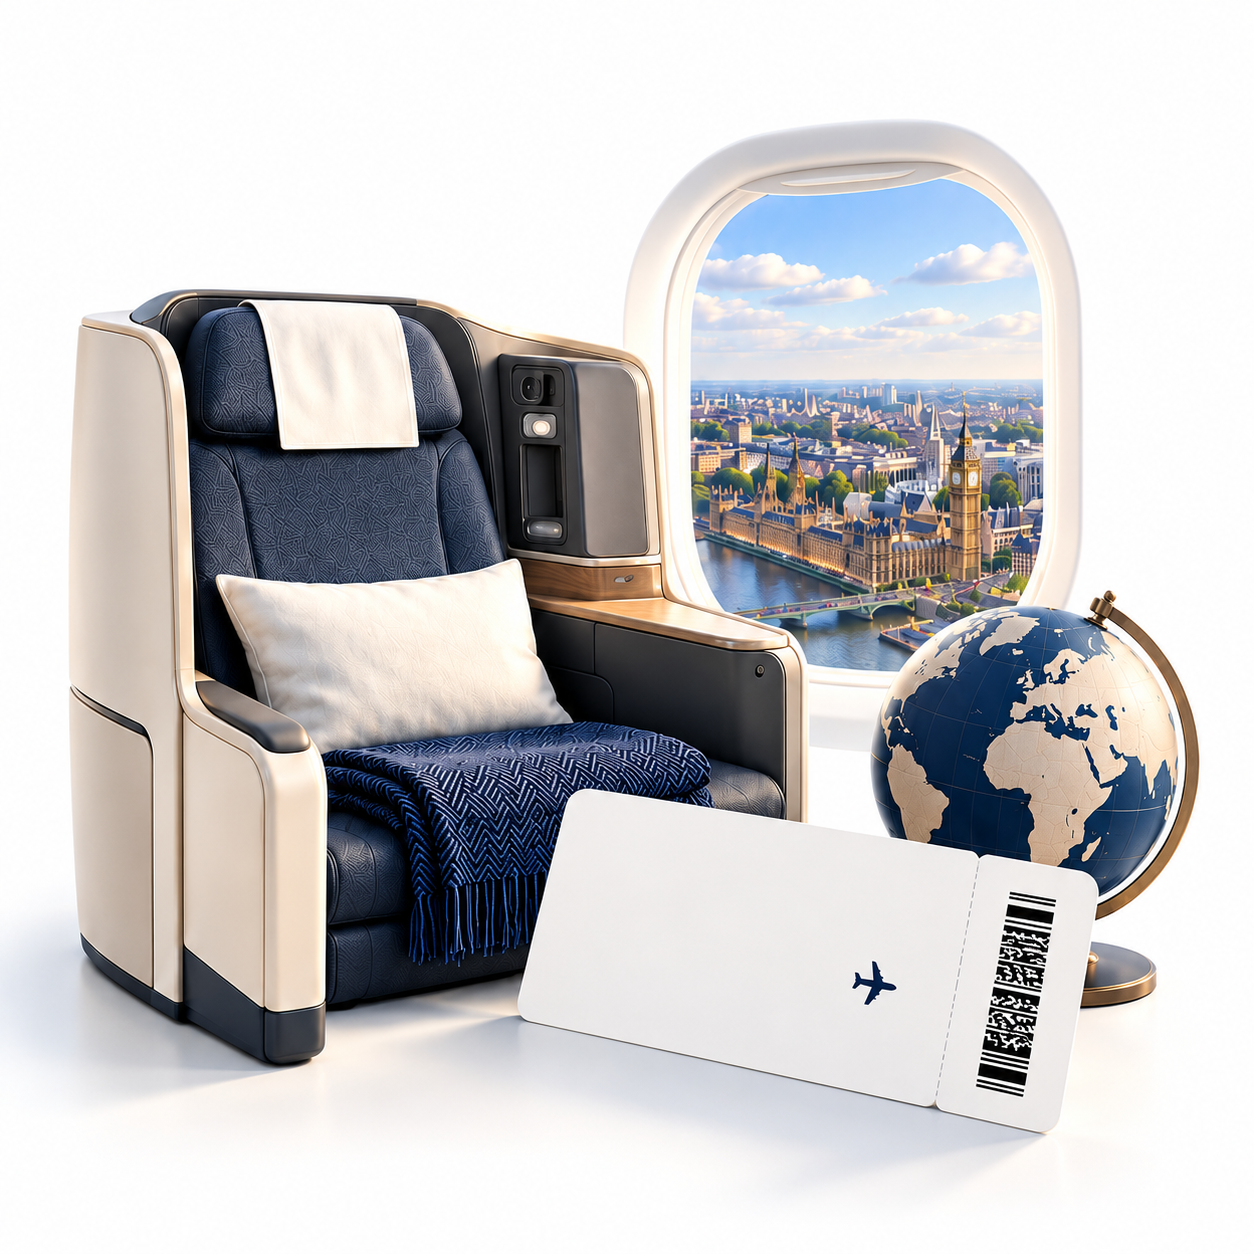
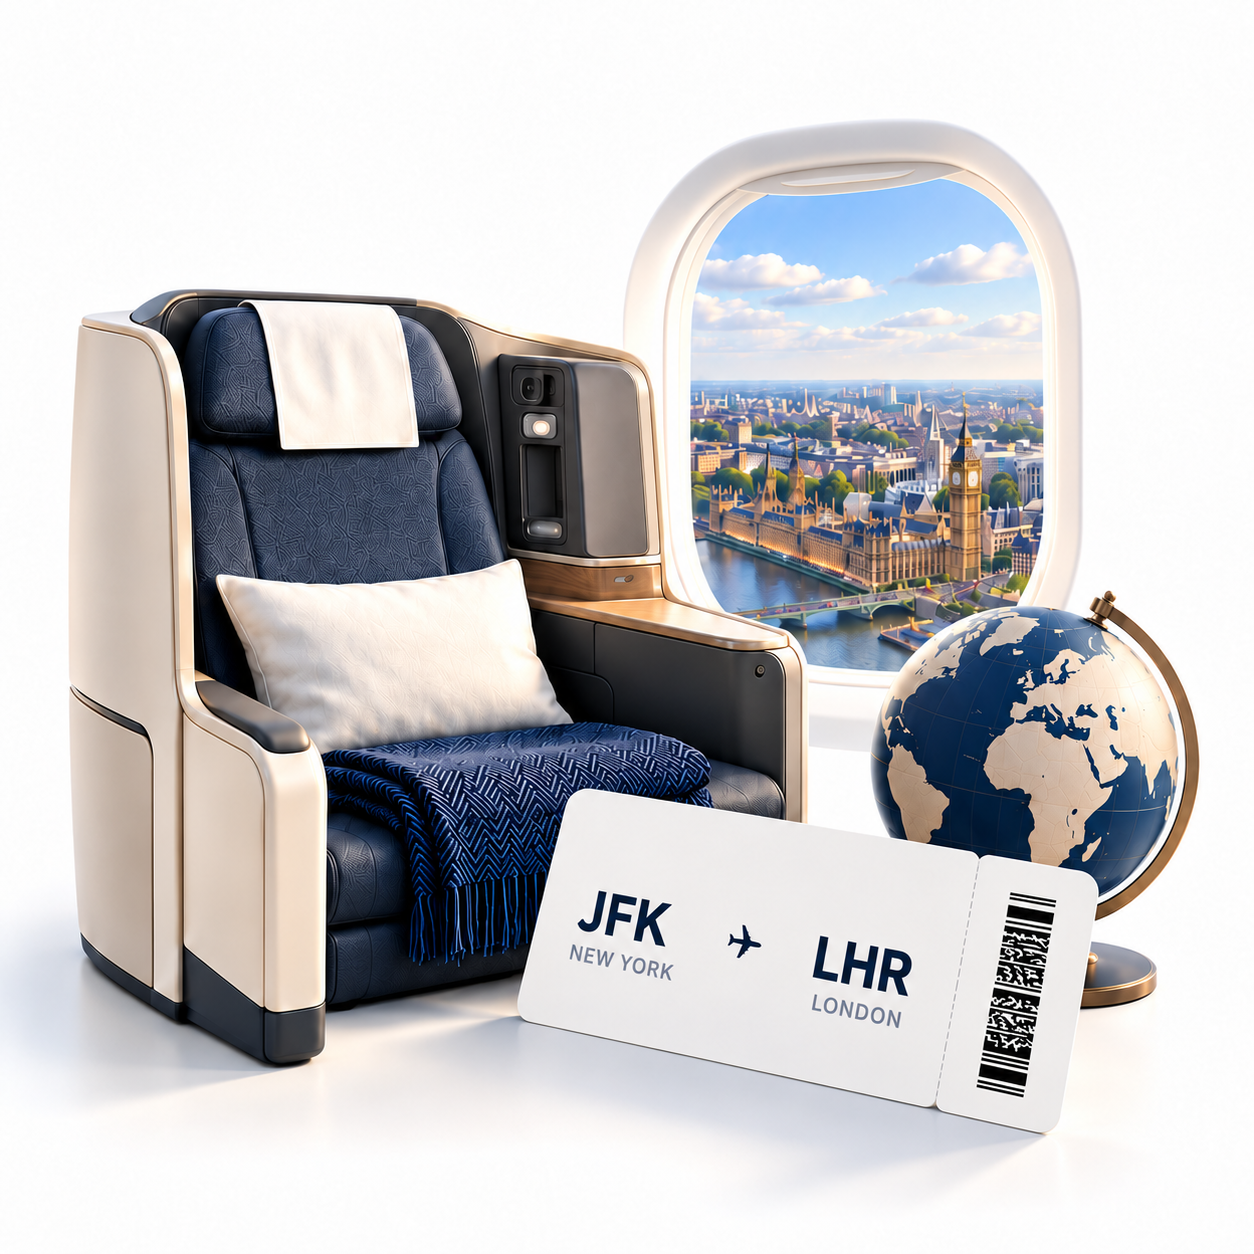
Restore complete boarding pass details in empty-state illustration

diff --git a/isolated/bbc-club-3.0-design/final/README.md b/isolated/bbc-club-3.0-design/final/README.md
@@ -71,5 +71,10 @@ Generated raster edits and reconstructed photos are visual approximations, not c
 - `assets/new-york.png` — New York skyline; daylight landscape 3:2 photo without UI or text.
 - `assets/business-class-seat.png` — Business-class seat; daylight landscape 3:2 photo without UI or text.
 - `assets/airport-lounge.png` — Airport lounge; daylight landscape 3:2 photo without UI or text.
-- `assets/empty-state-illustration.png` — Empty-state illustration; square on white, without UI or text.
+- `assets/empty-state-illustration.png` — Empty-state illustration; square on white, with the complete JFK / NEW YORK to LHR / LONDON boarding pass, plane and barcode; no app UI or airline branding.
 - `README.md` — source, isolation rules, generation notes and one-line file inventory.
+
+
+## Complete illustration asset
+
+Use assets/empty-state-illustration.png directly as one complete image. Do not regenerate, redraw, rebuild or replace its boarding pass, text, objects or London view. The pass already contains JFK, NEW YORK, LHR, LONDON, the small plane and barcode. Keep the cream/navy seat, patterned upholstery, white headrest cloth and pillow, navy fringed throw, side console, London airplane-window view, globe, white background and shadows. Do not invent airline branding, passenger details, ticket numbers, dates or other text. This asset's embedded route labels are intentional and supersede the earlier no-text instruction for this asset only.
